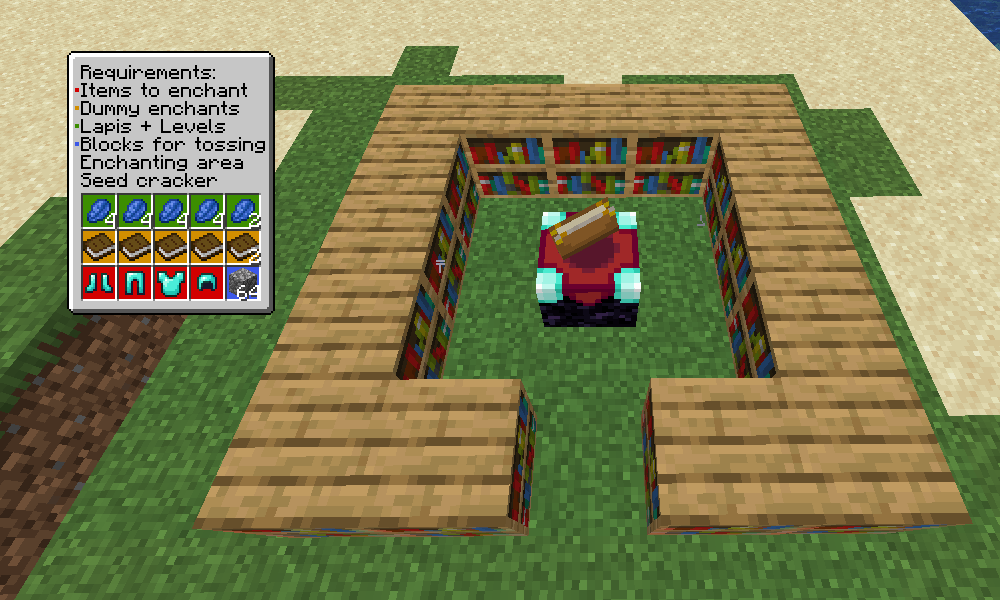
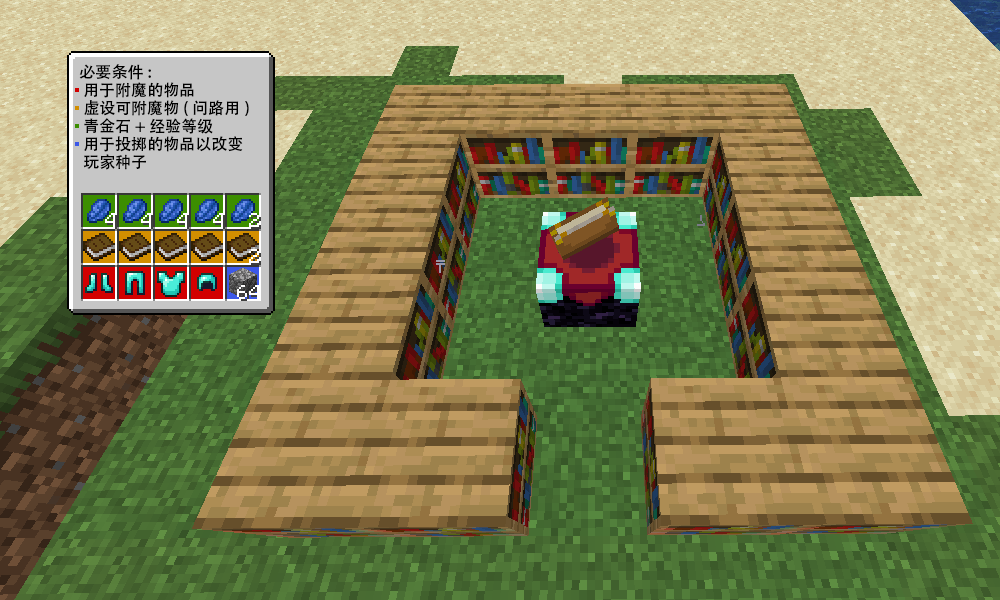
zh_cn

Changed region(s): [[0.062, 0.09, 0.279, 0.33]]

diff --git a/README.md b/README.md
@@ -1,124 +1,131 @@
-# MC Enchantment Cracker Tutorial
+# MC 附魔破解器教程
 
 ![](./img/RckQcaF.png)
 
-In this album I'll be explaining how to use the Enchantment Cracker tool.
+在此页面中，我将解释如何使用 Enchantment Cracker 工具。
 
-## You will need:
-- Whatever items you want to enchant.
-- The same number of items for dummy enchantments, plus 2 more.
-- Lapis and levels for enchanting. 4 lapis+levels per enchanted item, plus 2 more lapis and 29 more levels.
-- An enchanting area that has easily manipulable bookshelves (I used a silk-touch axe).
-- The seed cracking tool (https://github.com/Earthcomputer/EnchantmentCracker/)
+## 你将需要:
 
-This all needs to be obtained before starting.
+- 任何你想要附魔的物品。
+- 数量相同的虚设附魔物。额外再加 2，用于计算玩家种子。
+- 用于附魔的青金石和等级。每个附魔一个物品需要 4 个青金石 + 等级，额外再加 2 个青金石和 29 个等级。
+- 一个附魔的区域，有易于操作的书架（我使用火把来阻挡附魔台和书架的连接）。
+- 种子破解工具 (https://github.com/Earthcomputer/EnchantmentCracker/)
 
-In this example I want to enchant a full set of diamond armour, so I need:
-- That armour
-- 6 dummy enchantables (I used books)
-- 18 lapis (4 per piece + 2)
-- 41 levels (4 per piece + 29)
-- Enchant area + cracking tool
+**所有这些都需要在开始附魔之前取得。**
+
+在这个例子中，我想为全套钻石盔甲附魔，所以我需要：
+
+- 那副钻甲
+- 6 个虚设可附魔物（我用的是书）
+- 18 颗青金石（每件附魔 4 颗 + 2 颗）
+- 41 经验等级（每件附魔 4 个等级 + 29 个等级）
+- 附魔区域 + 破解工具
 
 > [!IMPORTANT]\
-> Do not do anything else during the entire process. A lot of things update your player seed, and if you do any of those things the entire process must be started over. This is why everything must be obtained before starting, as most (if not all) forms of xp farming will update your player seed, and getting everything else can also do the same.
+> 整个过程中请勿进行任何其他操作。很多操作都会更新你的玩家种子，比如冲刺或丢弃物品等。如果你进行任何操作，整个过程都必须重新开始。这就是为什么在开始之前必须完成所有操作，因为大多数（如果不是全部的话）经验刷取都会更新你的玩家种子，完成其他操作也会更新你的玩家种子。
 
-![](./img/hDjn83V.png)
+![](./img/0.png)
 
-## Step 1: Priming your enchanting seed
+## 第一步：准备你的附魔种子
 
-To ensure that your enchanting seed is correct to start with, enchant a dummy item with 1 lapis and 1 level. Your enchanting seed is only updated after doing an enchantment, but your player seed (which the enchanting seed comes from) can be updated from a multitude of things, such as dropping items - which is used to our advantage later.
+为了确保你的附魔种子从一开始就正确，请用 1 颗青金石和 1 级附魔等级为一个虚设可附魔物附魔。你的附魔种子只有在附魔完成后才会更新，但你的玩家种子（附魔种子的来源）可以通过多种方式更新，例如丢弃物品——这在我们之后会用到。
 
-Do not toss the dummy enchantment item on the ground. This will change your player seed and break the process. You can however put it into a chest.
+不要将虚设可附魔物扔到地上。这会改变你的玩家种子并中断整个过程。不过，你可以将其放入箱子中。
 
-## Step 2: Fill in the enchanting info on the cracker
+![](./img/1.png)
 
-Put the number of bookshelves into the number field over the shelves on the tool, and put the level requirements in below that. It should look like the image above.
+## 第二步：在破解器上填写附魔信息
 
-![](./img/lyj6p0K.png)
+在工具上的书架中的数字栏中输入书架数量，并在下方输入等级要求。结果应该如上图所示。
 
-## Step 3: Search for the first seed
+![](./img/2.png)
 
-Press "Check" and wait for it to find what seeds you could have.
+## 第三步：寻找第一个种子
 
-Once it finishes it will tell you how many seeds fit the info you gave.
+按下 “检查” 按钮，等待它找到你可能的种子。\
+完成后，它会告诉你根据你提供的信息有多少可能的种子。
 
-![](./img/4vPgPBx.png)
+![](./img/3.png)
 
-## Step 4: Keep searching
+## 第四步：继续搜索
 
-Reduce the number of bookshelves by 1, and put in the info again. This will reduce the number of seeds you could have.
+将书架数量减少 1，然后再次输入信息。这会减少可能的种子数量。\
+可以参考 [wiki](https://minecraft.wiki/w/Enchanting_mechanics#Selecting_an_enchantment_level) 使用火把来禁用指定数量的书架。
 
-Keep doing this until...
+重复步骤直到……
 
-![](./img/oDdu9Vm.png)
+![](./img/4.png)
 
-## Step 5: First seed found
+## 第五步：找到第一个种子
 
-You've found the first enchanting seed. This will automatically be entered into "XP Seed 1".
+你找到了第一颗附魔种子。它将自动填入 “XP种子 1” 中。
 
-Usually this happens once you get down to 10 bookshelves, but I actually still had 2 possible seeds at 10.
+通常，当你的书架数量减少到 10 个时就会发生这种情况，但实际上我在 10 个书架时仍然有 2 个可能的种子。
 
-If it instead says "No possible seeds", press "Reset" and start again from step 2.
-This usually means that you entered some information incorrectly, but it can also mean that the server you're playing on does things differently, in which case the tool can't be used.
+如果显示 “没有可能的种子”，请按 “重置” 并从步骤 2 重新开始。
+这通常意味着你输入了一些错误的信息，但也可能意味着你正在玩的服务器的操作有所不同，在这种情况下该工具无法使用。
 
-![](./img/a3692s3.png)
+![](./img/5.png)
 
-## Step 6: Search for the second seed
+## 第六步：搜索第二个种子
 
-Press "Reset", repeat steps 1-5 again.
+按 “重置”，重复步骤 1-5。
 
-![](./img/i3Ln8hl.png)
+![](./img/6.png)
 
-## Step 7: Found second seed
+## 第七步：找到第二颗种子
 
-You now have both enchanting seeds. Which means...
+现在你拥有了两颗附魔种子。这意味着……
 
-![](./img/mu9jrmW.png)
+![](./img/7.png)
 
-## Step 8: Calculate player seed
+## 第八步：计算玩家种子
 
-You can now press "Calculate Seed", and if all goes well it will work out your full player seed.
+现在你可以点击 “计算种子”，如果一切顺利，系统将计算出你的完整玩家种子。\
+如果此步骤失败，你可能需要重新开始。
 
-If this step fails, you may have to start over.
+但是，如果你在计算第一个种子之前忘记为虚设可附魔物附魔，你可以将第一个种子替换为第二个种子（第二个种子留空），然后返回步骤 6。
 
-However, if you forgot to enchant a dummy item before working out the first seed, you can replace the first seed with the second seed (leaving the second seed blank), and go back to step 6.
+现在到了有趣的部分：利用机制获利！
 
-Now comes the fun part: Exploiting mechanics for profit!
+![](./img/8.png)
 
-![](./img/wOuTEKB.png)
+## 第九步：选择你想要的附魔
 
-## Step 9: Pick your desired enchantments
+现在你已经拥有了玩家种子，你可以在顶部选择要附魔的物品（所有装备材料均支持），然后在下方选择你想要的附魔。
 
-Now that you have your player seed, you can pick the item you're enchanting at the top (all equipment materials supported - image is out of date) and select which enchantments you want below.
+如果你不想要某个附魔，请按其旁边的 X。\
+如果你想要某个附魔，请按其旁边的 1-5（如果只有一个等级，请按 +）。\
+如果你不介意某个附魔，请保留它。\
+选择你想要的附魔时，你选择的等级是最低等级时。你得到的附魔结果可能会比你指定的更好。
 
-If you do not want an enchantment, press X next to it.
-If you want an enchantment, press 1-5 (or + if it only has one level) next to it.
-If you do not care about an enchantment, leave it.
+选定附魔后，点击 “计算”，信息将显示在下方：
 
-When picking a desired enchantment, the level you pick is the minimum level. You might get an enchantment result that is better than what you specified.
-
-Once you've picked out your enchantments, press "Calculate" and information will appear below:
-- Cobblestone: How many single items to drop (large amounts show number of stacks for convenience, but you still drop one at a time)
-- Lapis: How many levels to spend
-- Bookshelves: How many bookshelves to use
+- 圆石：需要丢弃的单件物品数量（为了方便起见，数值较大的物品会显示堆叠数量，但你仍应每次只丢弃一个）
+- 青金石：需要消耗多少等级
+- 书架：需要使用多少个书架
 
 > [!NOTE]\
-> Items might not list the maximum level available for an enchantment, for instance a diamond sword will not list sharpness 5 but a gold sword will. This is because the enchantment is impossible to directly obtain on that item due to the enchantability of that item.
+> 物品可能不会列出可附魔的最高等级，例如，钻石剑不会列出锋利度5，但金剑会。这是因为该物品的可附魔性使其无法直接获得该附魔。
 
-![](./img/BFYAuuk.png)
+![](./img/9.png)
 
-If the number of items to drop is a number:
-- Drop the number of items specified, ONE AT A TIME (if 0, ignore this step)
-- Enchant a dummy item
-- Enchant your specified item with the number of levels and bookshelves stated
-- Press "Done" to update your seed on the tool
+如果要丢弃的物品数量是数字：
 
-If the number of items to drop is "No dummy":
-- Directly enchant your item, no item drops or dummy enchants needed this time
-- Press "Done"
+- 按 Q 丢弃指定数量的物品（如果为 0，则忽略此步骤）(可以捡起)
+- 为虚设可附魔物附魔
+- 使用指定等级和书架数量为你指定的物品附魔
+- 按 “完成” 更新工具上的种子
 
-If the number of items to drop is "No match":
-The desired enchantments couldn't be found after trying all combinations up to dropping 10000 items. Chances are your desired enchantments are too strict, or you have an impossible combination (sharpness + bane of arthropods).
+如果要丢弃的物品数量为空：
 
-Note: Enchanting a book is particularly finicky, as they are far more likely to not find your desired enchantments (or require a lot of dropping). This is due to the fact books can have any non-treasure enchantment.
+- 直接为你指定的物品附魔，本次无需丢弃物品或为虚设可附魔物附魔
+- 按 “完成”
+
+如果要消耗的等级或需要的书架数量是 “-”：
+
+尝试所有组合（最多掉落 10000 件物品）后，仍未找到所需的附魔。这可能是因为你所需的附魔条件过于严格，或者你遇到了无法实现的组合（锋利 + 节肢动物克星）。
+
+> [!NOTE]\
+> 书籍附魔非常挑剔的，因为书籍很可能找不到你想要的附魔（或者需要多次丢弃）。这是因为书籍可以带有任何非宝藏附魔。
